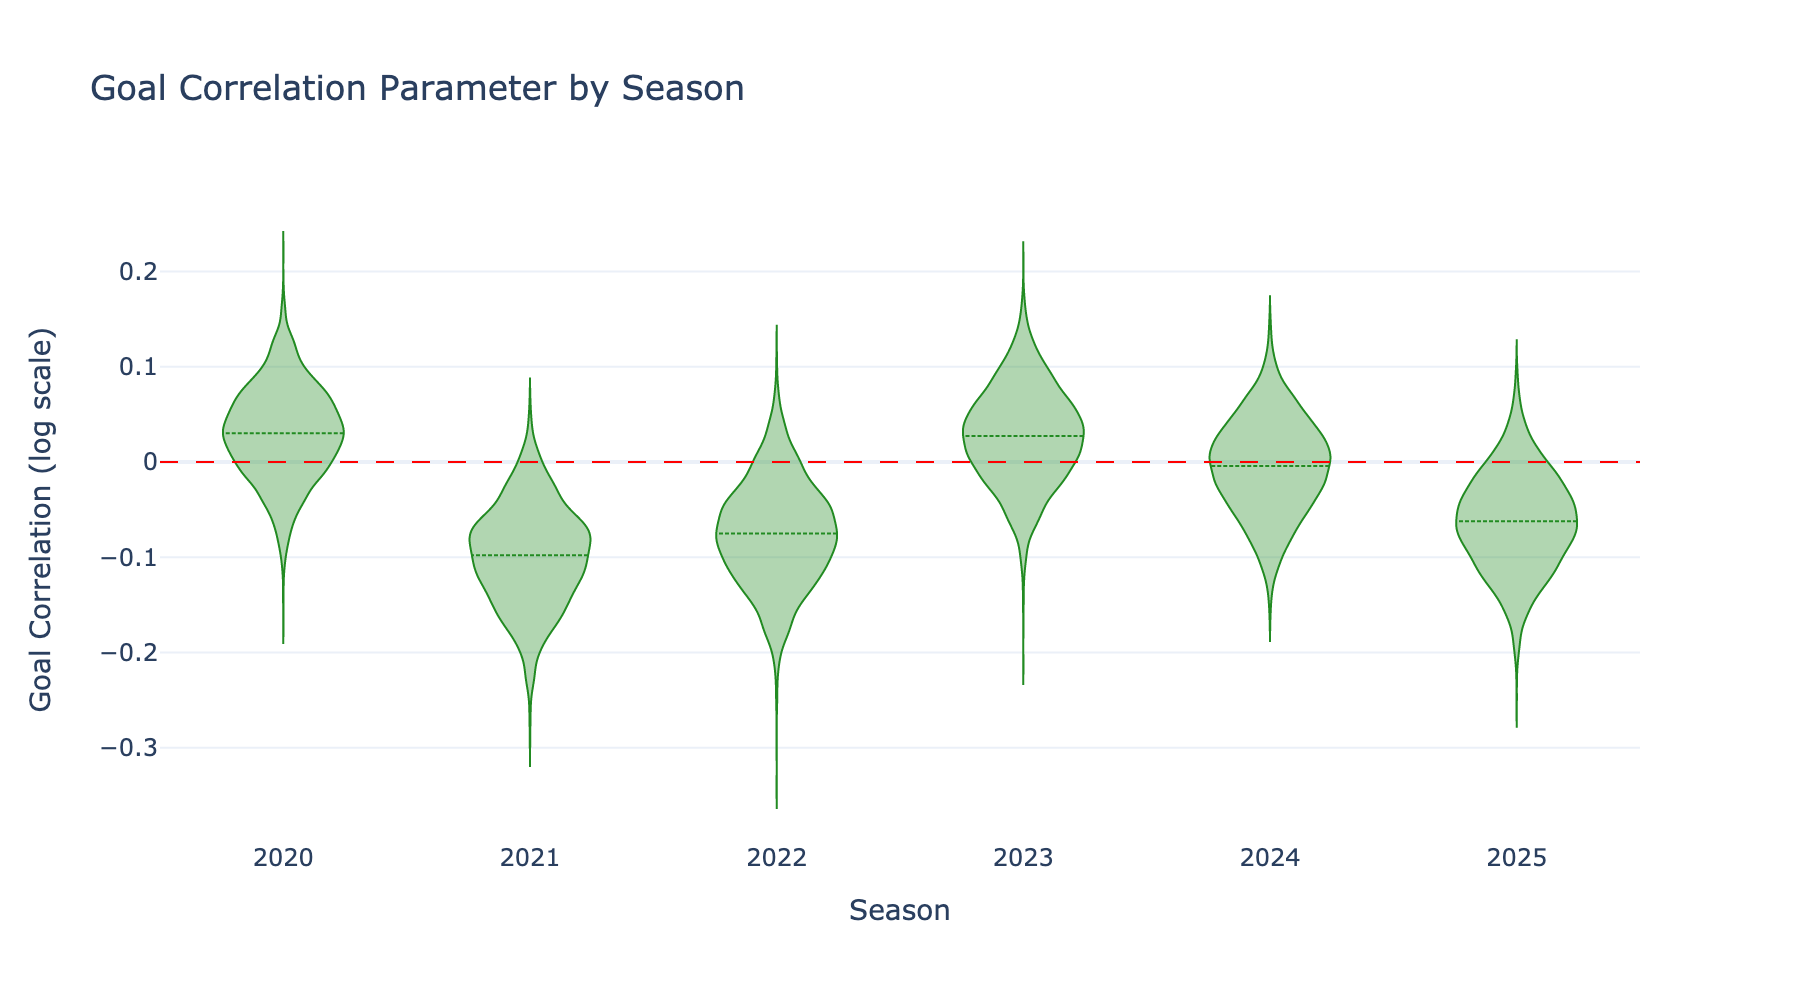
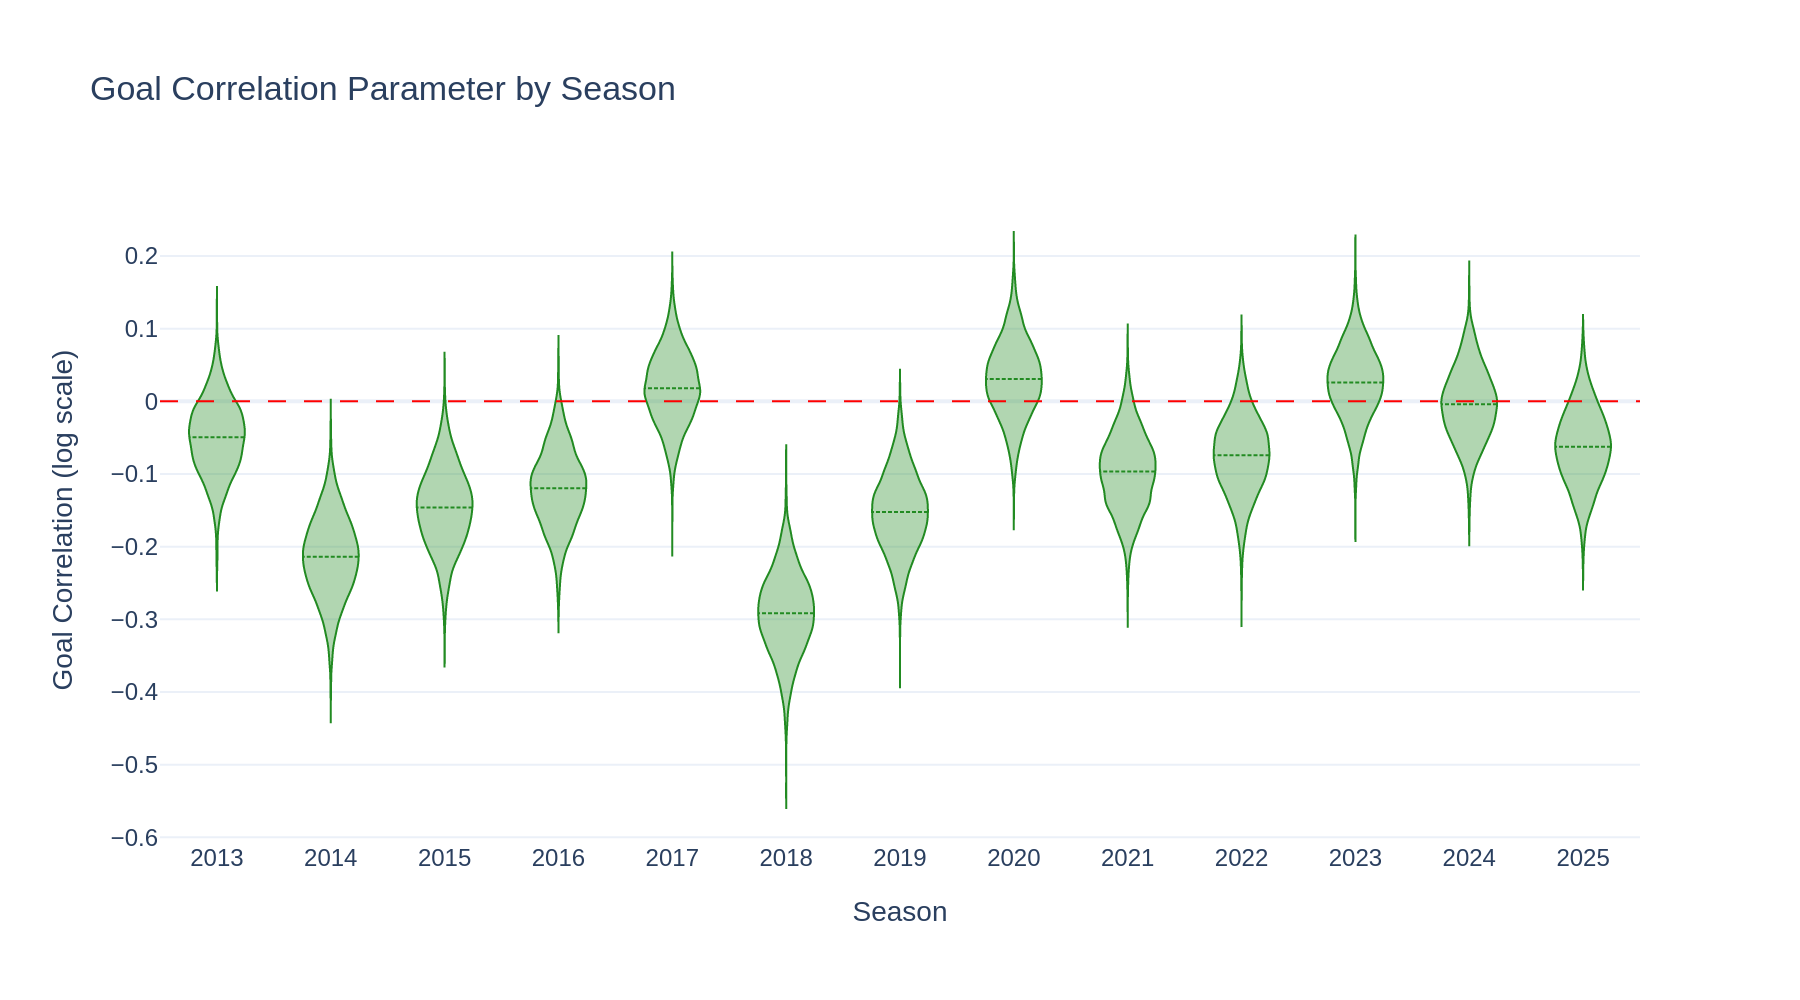
Extend real-data pipeline to 2013-2025
Handle the unplayed 2016 Chapecoense x Atletico-MG fixture (simulated in
mid-season windows, excluded from the fit and from the metrics), reports
with no kick-off time and non-H/A/D results. Notebook now covers 2013-2025;
regenerate home-effect and correlation-strength figures.

Claude-Session: https://claude.ai/code/session_01CX1xC5yQVPLEKK3gby7wpE

diff --git a/src/real_data/data_processing.py b/src/real_data/data_processing.py
@@ -2,6 +2,7 @@
 
 import json
 import os
+from itertools import product
 from typing import Any, Optional
 from datetime import datetime as dt
 import pandas as pd
@@ -21,6 +22,7 @@ def parse_datetime(date: str, time: str) -> str:
         str: Date and time formatted as "YYYY/MM/DD HH:MM".
              If conversion fails, returns the original concatenated date and time string.
     """
+    time = time.strip() or "00:00"  # a few scraped reports have no kick-off time
     return dt.strptime(f"{date} {time}", "%d/%m/%Y %H:%M").strftime("%Y/%m/%d %H:%M")
 
 
@@ -79,6 +81,26 @@ def generate_all_matches_from_scraped_data(year: int, save_path: Optional[str] =
             all_matches[game_id]["result"] = "A"
         else:
             all_matches[game_id]["result"] = "D"
+
+    # Fixtures that were never played (e.g. Chapecoense x Atletico-MG in 2016) are kept as
+    # unplayed placeholders in the last round, so the season keeps n_clubs * (n_clubs - 1)
+    # matches: they are simulated as regular matches but never used to fit a model.
+    teams = {m["home_team"] for m in all_matches.values()}
+    teams |= {m["away_team"] for m in all_matches.values()}
+    played = {(m["home_team"], m["away_team"]) for m in all_matches.values()}
+    last_datetime = max(m["match_datetime"] for m in all_matches.values())
+    for home_team, away_team in sorted(product(teams, teams)):
+        if home_team == away_team or (home_team, away_team) in played:
+            continue
+
+        all_matches[str(len(all_matches) + 1).zfill(3)] = {
+            "home_team": home_team,
+            "away_team": away_team,
+            "match_datetime": last_datetime,
+            "goals_team1": None,
+            "goals_team2": None,
+            "result": "TBD",
+        }
 
     with open(save_path, "w", encoding="utf-8") as f:
         json.dump(all_matches, f, ensure_ascii=False, indent=2)
@@ -222,7 +244,7 @@ def generate_real_data_stan_input(
     team2: list[int] = []
     goals_team1_list: list[int] = []
     goals_team2_list: list[int] = []
-    results: list[float] = []
+    results: list[Optional[float]] = []
 
     # hardcoded start because we don't know the number of teams in advance
     if len(data) == 380:
@@ -259,8 +281,10 @@ def generate_real_data_stan_input(
             results.append(1.0)
         elif result == "A":
             results.append(0.0)
-        else:
+        elif result == "D":
             results.append(0.5)
+        else:
+            results.append(None)
 
     base_data = {
         "num_games": len(team1),

diff --git a/src/real_data/model_execution.py b/src/real_data/model_execution.py
@@ -92,6 +92,17 @@ def run_model_with_real_data(
         i + 1: team_name for i, team_name in enumerate(data["team_names"])
     }
     del data["team_names"]
+
+    # unplayed matches (goals/results set to null) are simulated but never used in the fit
+    key = "goals_team1" if "goals_team1" in data else "results"
+    played = [value is not None for value in data[key]]
+    if not all(played):
+        for name, value in data.items():
+            if isinstance(value, list):
+                data[name] = [item for item, keep in zip(value, played, strict=True) if keep]
+
+        data["num_games"] = sum(played)
+
     if "naive_1" in model_name:
         fit = [1/3, 1/3, 1/3]
     elif "naive_2" in model_name:

diff --git a/src/real_data/metrics.py b/src/real_data/metrics.py
@@ -167,12 +167,16 @@ def calculate_metrics(model_name: str, year: int, num_games: int, championship: 
             .get(model_name, {})
             .get(str(num_games), {})
         ):
+            if game_data["result"] not in results_to_array:
+                continue  # unplayed match
+
             observations[game, :] = results_to_array[game_data["result"]]
             predictions[game, :] = game_data["probabilities"][model_name][
                 str(num_games)
             ]
             game += 1
 
+    observations, predictions = observations[:game], predictions[:game]
     row = [
         year,
         championship,
